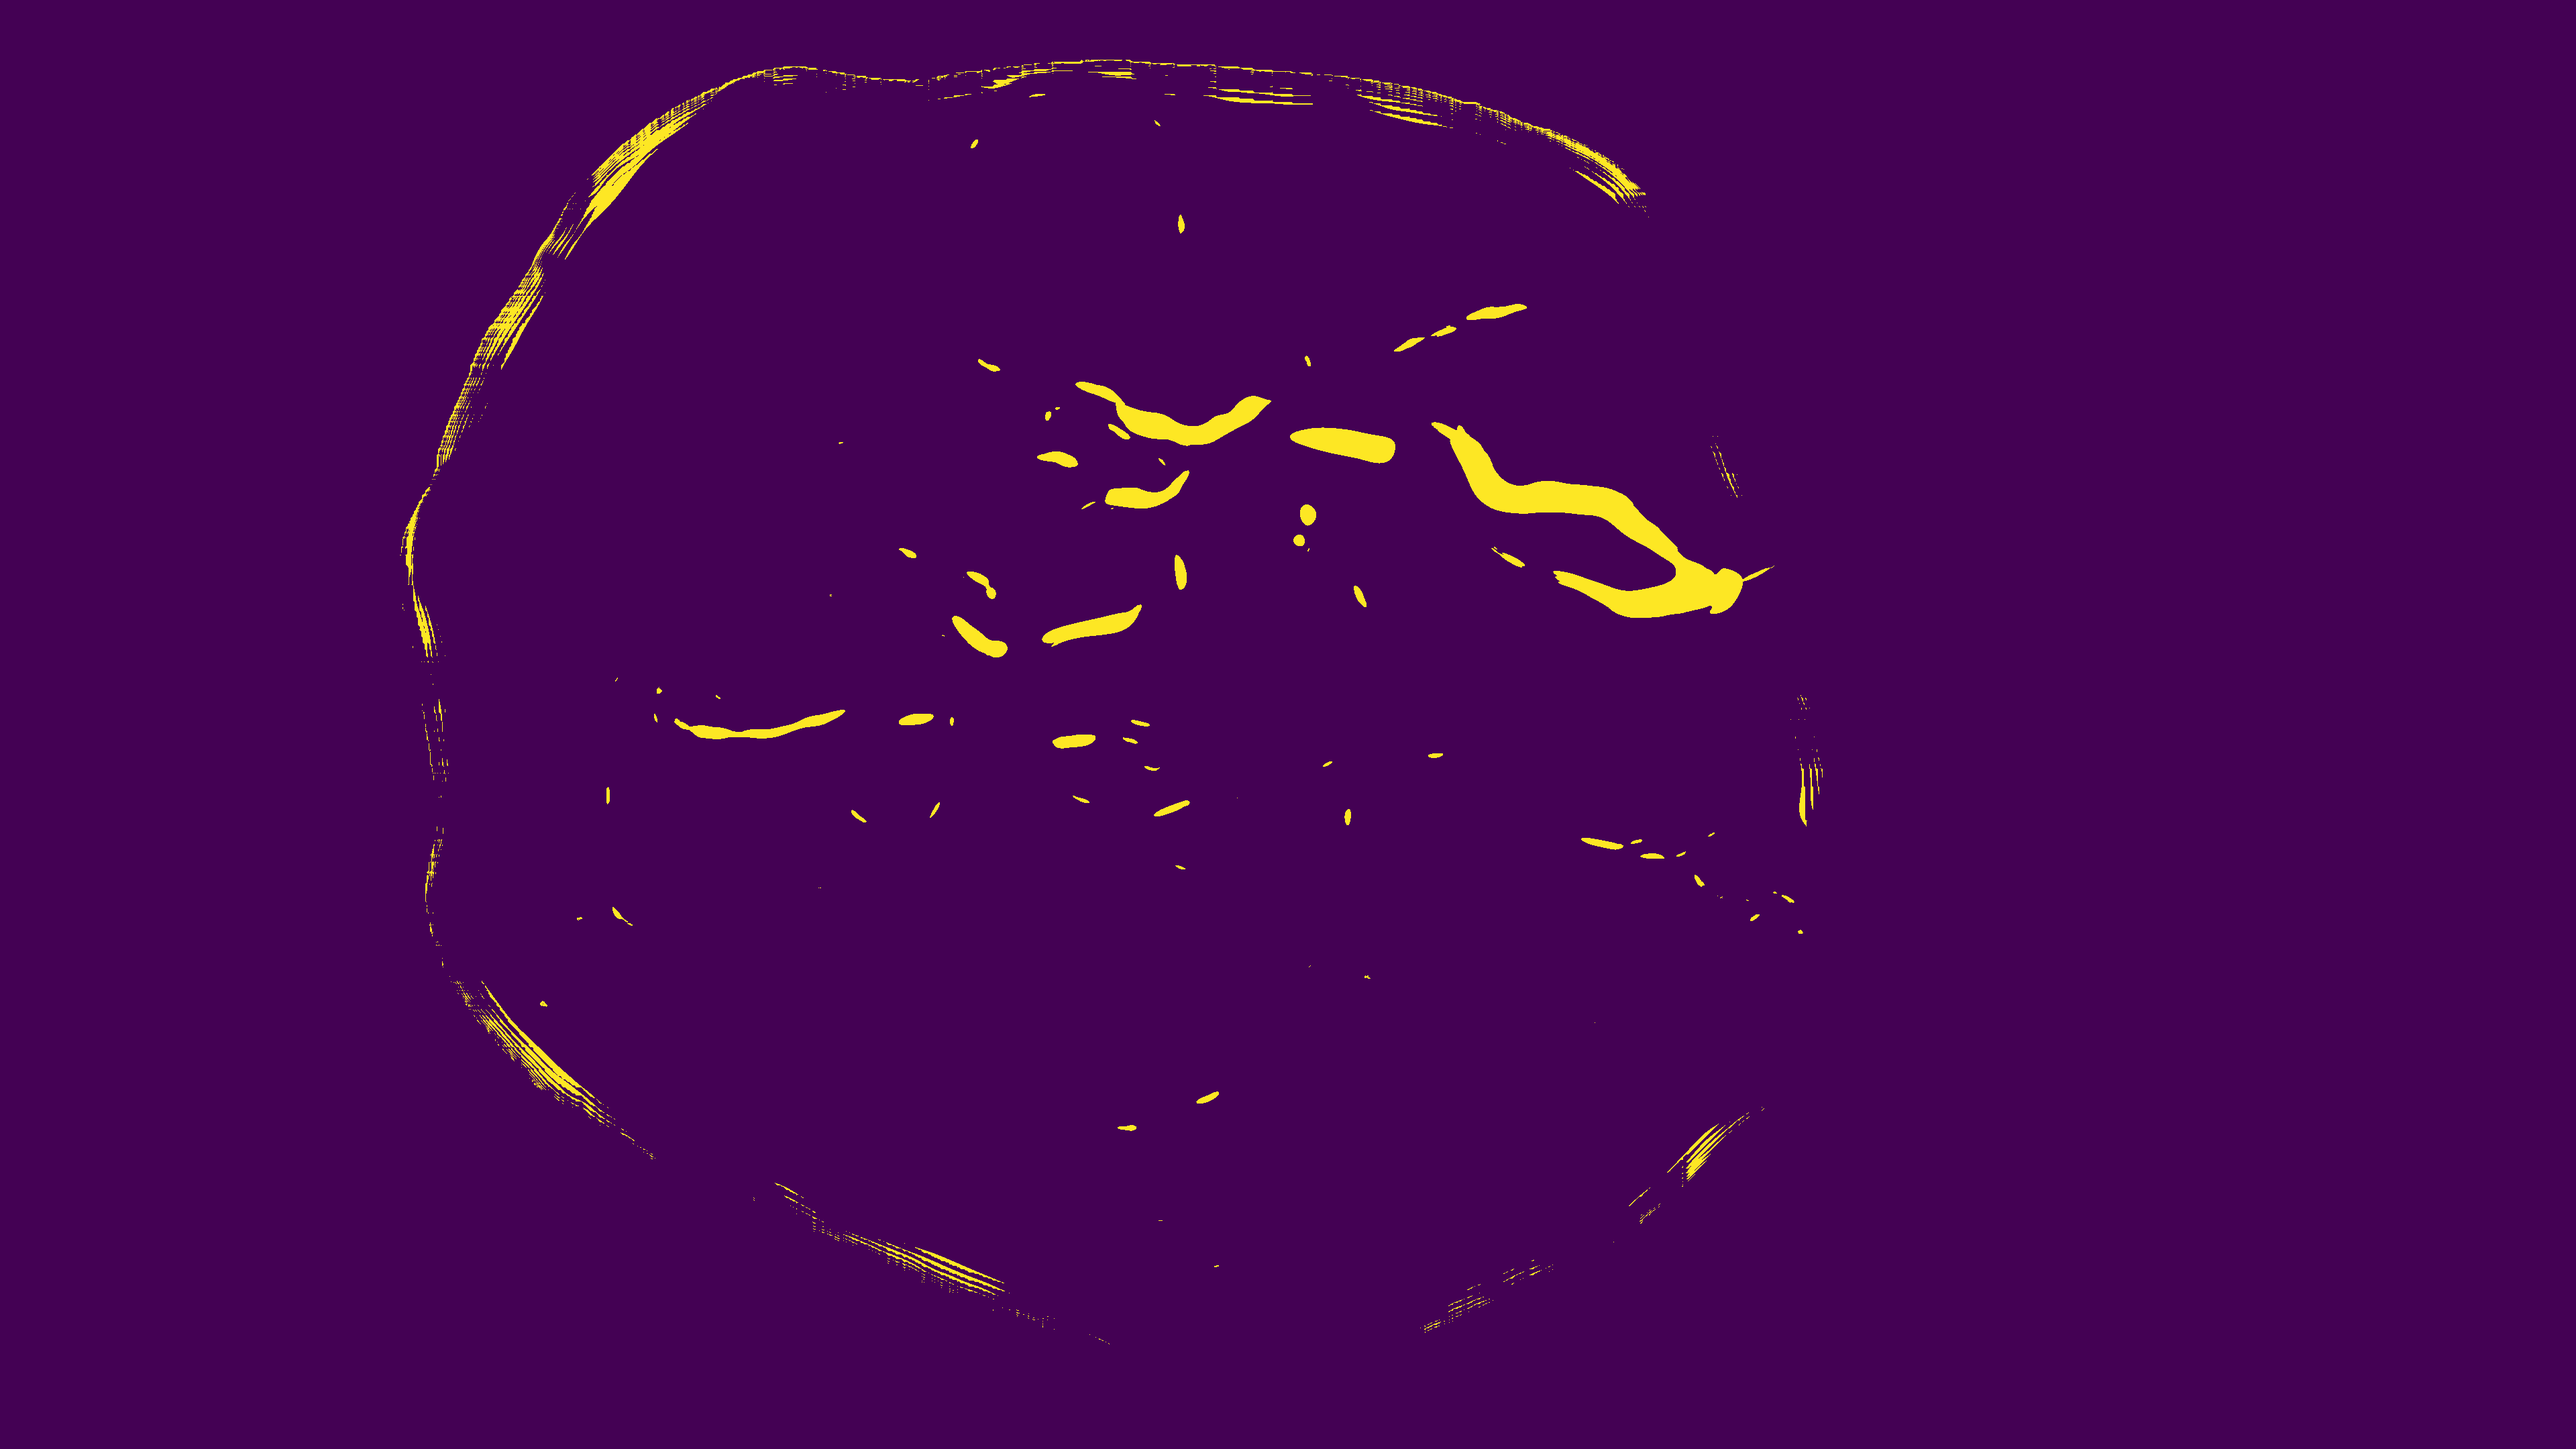
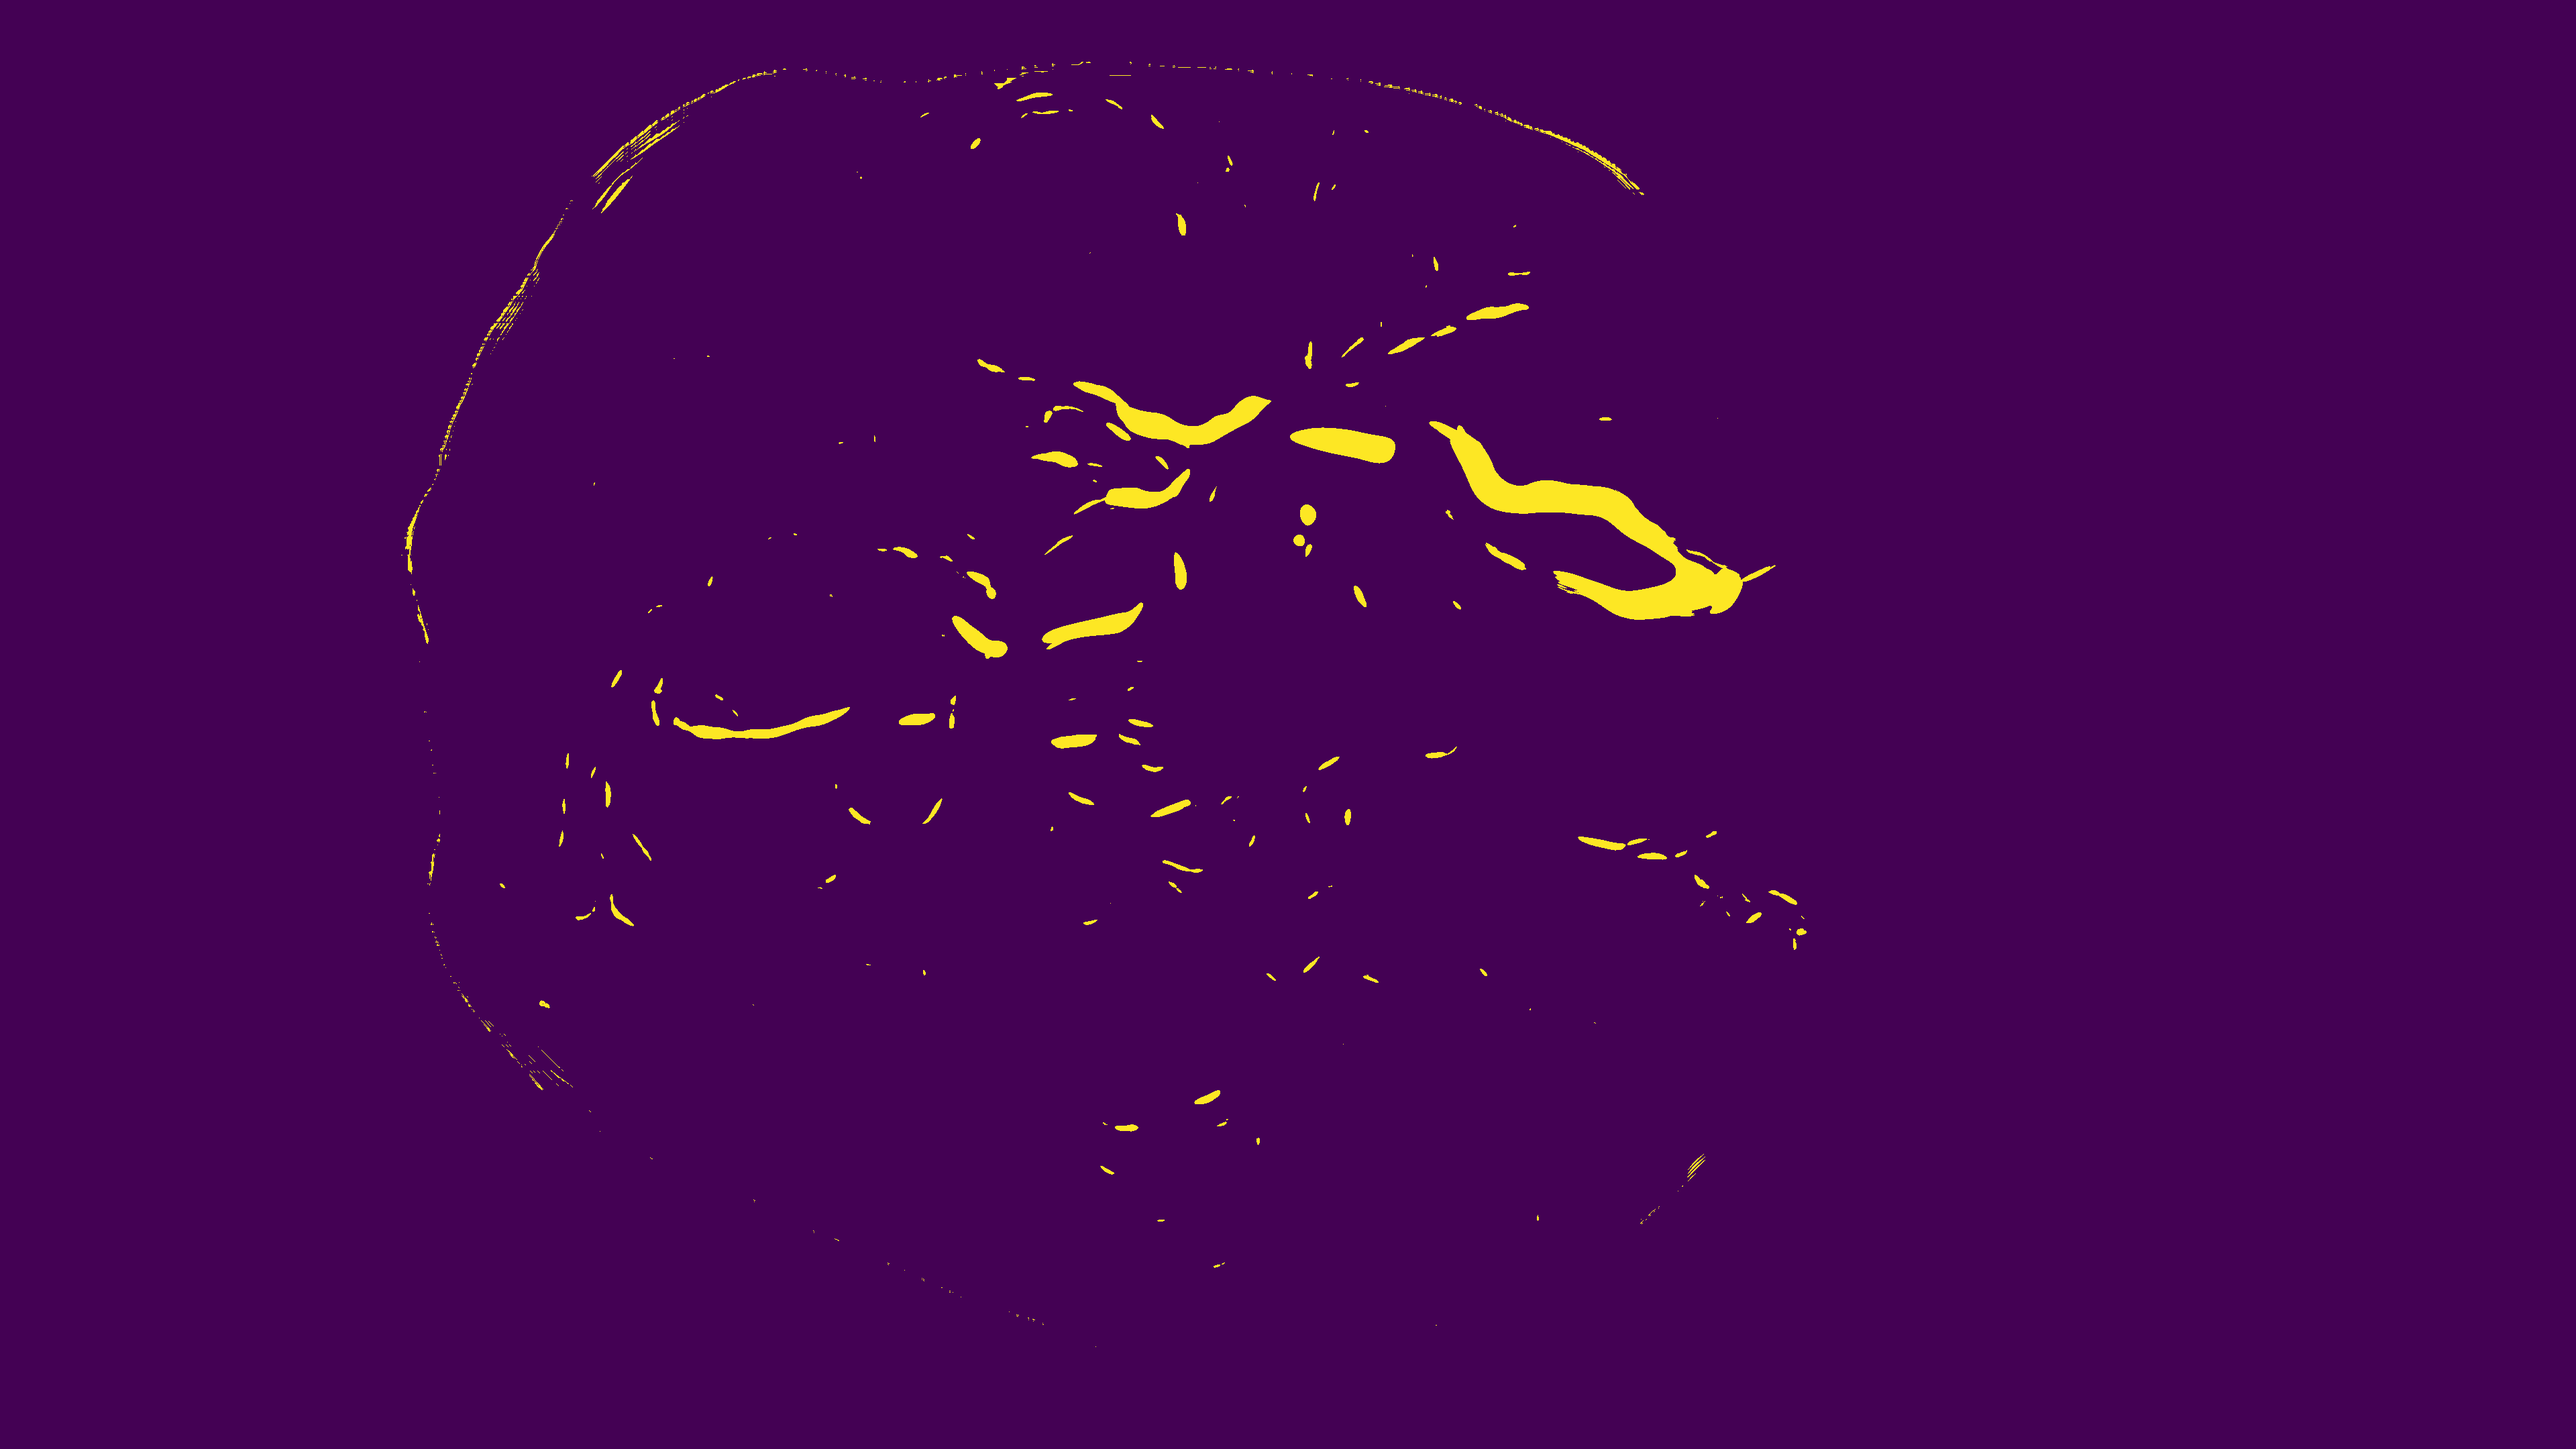
tried to trim frangi outputs early, very fudgy. maybe just a problem for uninjected and it's a bust

diff --git a/pcsvn.py b/pcsvn.py
@@ -33,21 +33,27 @@ def make_multiscale(img, scales, betas, gammas, find_principal_directions=False,
 
     for i, sigma, beta, gamma in zip(range(len(scales)), scales, betas, gammas):
 
-        if trim_first:
-            radius = int(sigma)
-            print('dilating plate for σ={}'.format(radius))
-            img = dilate_plate(img, radius=radius, plate_mask=img.mask)
+        if sigma < 5:
+            radius = 5
+        else:
+            radius = int(sigma*2.5) # a little conservative
+        collar = dilate_plate(img, radius=radius, plate_mask=img.mask)
 
+        collar = collar.mask
         if VERBOSE:
             print('σ={}'.format(sigma))
             print('finding hessian')
 
-        # get hessian components at each pixel as a triplet (Lxx, Lxy, Lyy)
+            # get hessian components at each pixel as a triplet (Lxx, Lxy, Lyy)
         hesh = fft_hessian(img, sigma)
 
         if VERBOSE:
             print('finding principal curvatures')
+
         k1, k2 = principal_curvatures(img, sigma=sigma, H=hesh)
+
+        k1[collar] = 0
+        k2[collar] = 0
 
         # set anisotropy parameter if not specified
         if gamma is None:
